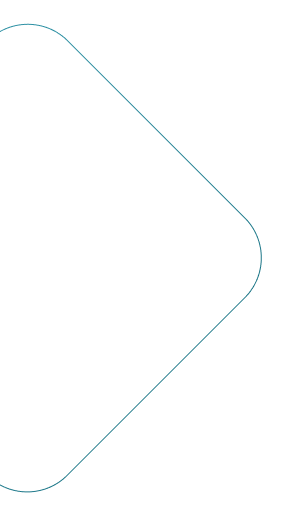
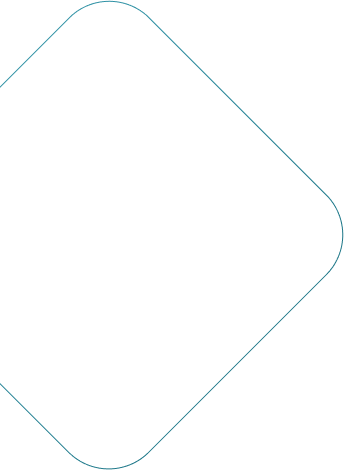
fix: alinhamento do texto lado esquerdo da pagina

diff --git a/src/pages/Page3/styles.js b/src/pages/Page3/styles.js
@@ -17,7 +17,7 @@ export const LeftSide = styled.div`
 export const RectangleWrapper = styled.div`
   display: flex;
   align-items: center;
-  margin-left: -30px;
+  margin-left: -90px;
 `;
 
 export const RectangleLeft = styled.img.attrs({
@@ -27,10 +27,44 @@ export const RectangleLeft = styled.img.attrs({
 export const RectangleRight = styled.img.attrs({
   src: Rectangle,
 })`
-  margin-left: -230px;
+  margin-left: -250px;
 `;
 
-export const TextWrapper = styled.div``;
+export const TextWrapper = styled.div`
+  color: white;
+  position: absolute;
+  width: 463px;
+  height: 285px;
+  left: 384px;
+  top: 2724px;
+
+  font-size: 15px;
+  line-height: 180%;
+`;
+
+export const Title = styled.div`
+  font-family: 'Oswald';
+  font-size: 15px;
+  letter-spacing: 0.1em;
+  text-transform: uppercase;
+  line-height: 300%;
+  margin-top: -150px;
+`;
+
+export const Text = styled.div`
+  font-family: 'Fira Sans';
+  margin-top: 100px;
+  width: 463px;
+  height: 283px;
+`;
+
+export const PrimaryText = styled.strong`
+  color: ${(props) => props.theme.colors.primary};
+`;
+
+export const LastText = styled.div`
+  margin-top: 50px;
+`;
 
 export const RightSide = styled.div`
   display: flex;

diff --git a/src/pages/Page3/index.jsx b/src/pages/Page3/index.jsx
@@ -10,8 +10,25 @@ const Page3 = () => {
       <S.RectangleLeft />
       <S.RectangleRight />
       <S.TextWrapper>
-        <h1>type specimen book. It has survive</h1>
-        
+        <S.Title>
+        <h1>type specimen book. It <br/>has survive</h1>
+        </S.Title>
+        <S.Text>
+        <p>
+          <S.PrimaryText>Lorem Ipsum dolor </S.PrimaryText> 
+           to make a type specimen book. 
+          It has survived not only five centuries, 
+          but also the leap into electronic typesetting, 
+          remaining essentially unchanged. It was popularised in the 1960s 
+          with the release of Letraset sheets containing Lorem Ipsum passages, 
+          and more recently with desktop publishing software like Aldus PageMaker 
+          including versions of Lorem Ipsum.
+        </p> 
+         <S.LastText>
+            publishing software like Aldus PageMaker 
+            including versions of Lorem Ipsum
+        </S.LastText>
+          </S.Text>
       </S.TextWrapper>
       </S.RectangleWrapper>
     </S.LeftSide>
